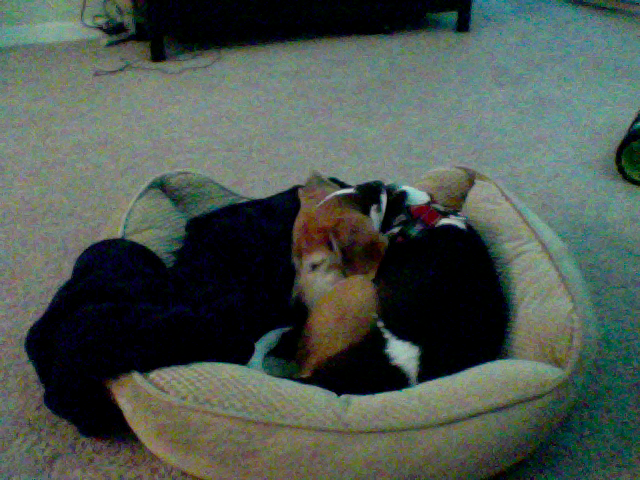
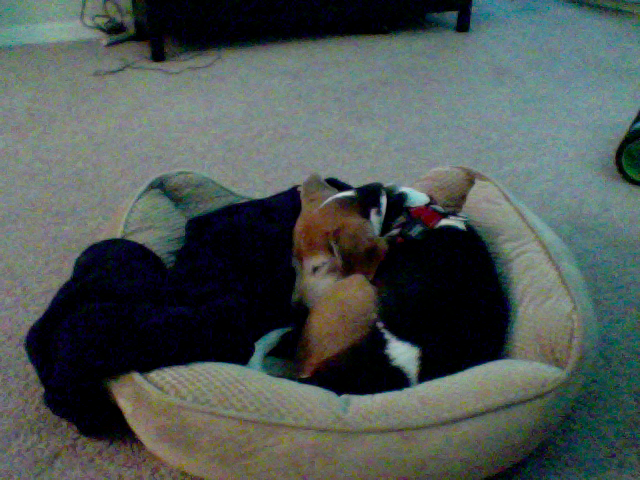
update at Month05Day13Time09:52

Changed region(s): [[0.0, 0.0, 1.0, 1.0], [0.375, 0.0, 0.4062, 0.0312]]

diff --git a/index.html b/index.html
@@ -39,8 +39,8 @@
       <!-- Example row of columns -->
       <div class="row">
         <div class="col-md-4">
-	<p>This picture was updated at Month05Day13Time09:51</p>
-		<img src="10_pic.png" />
+	<p>This picture was updated at Month05Day13Time09:52</p>
+		<img src="7_pic.png" />
         </div>
       </div>
 
